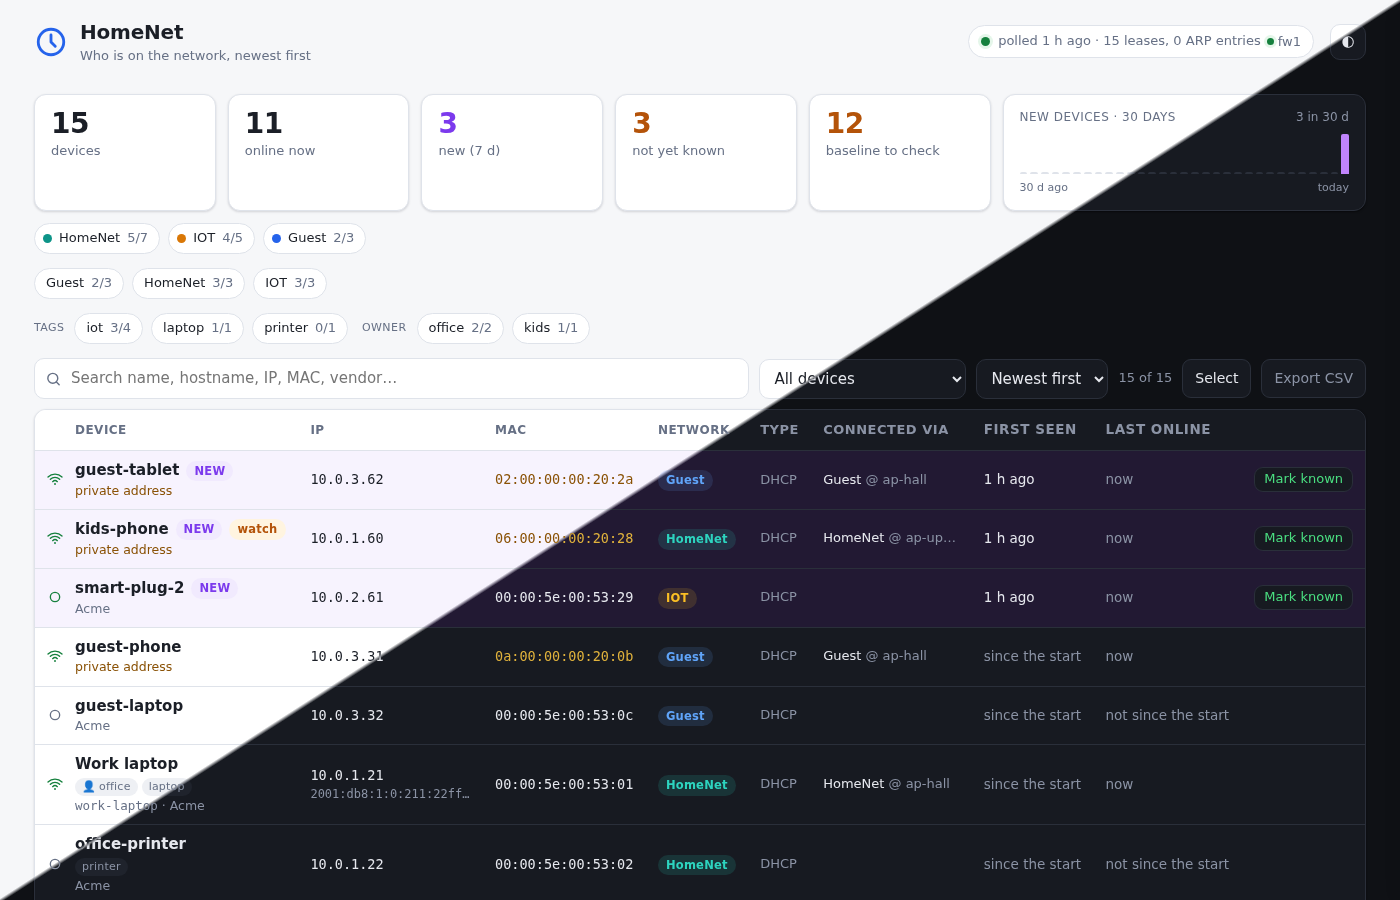
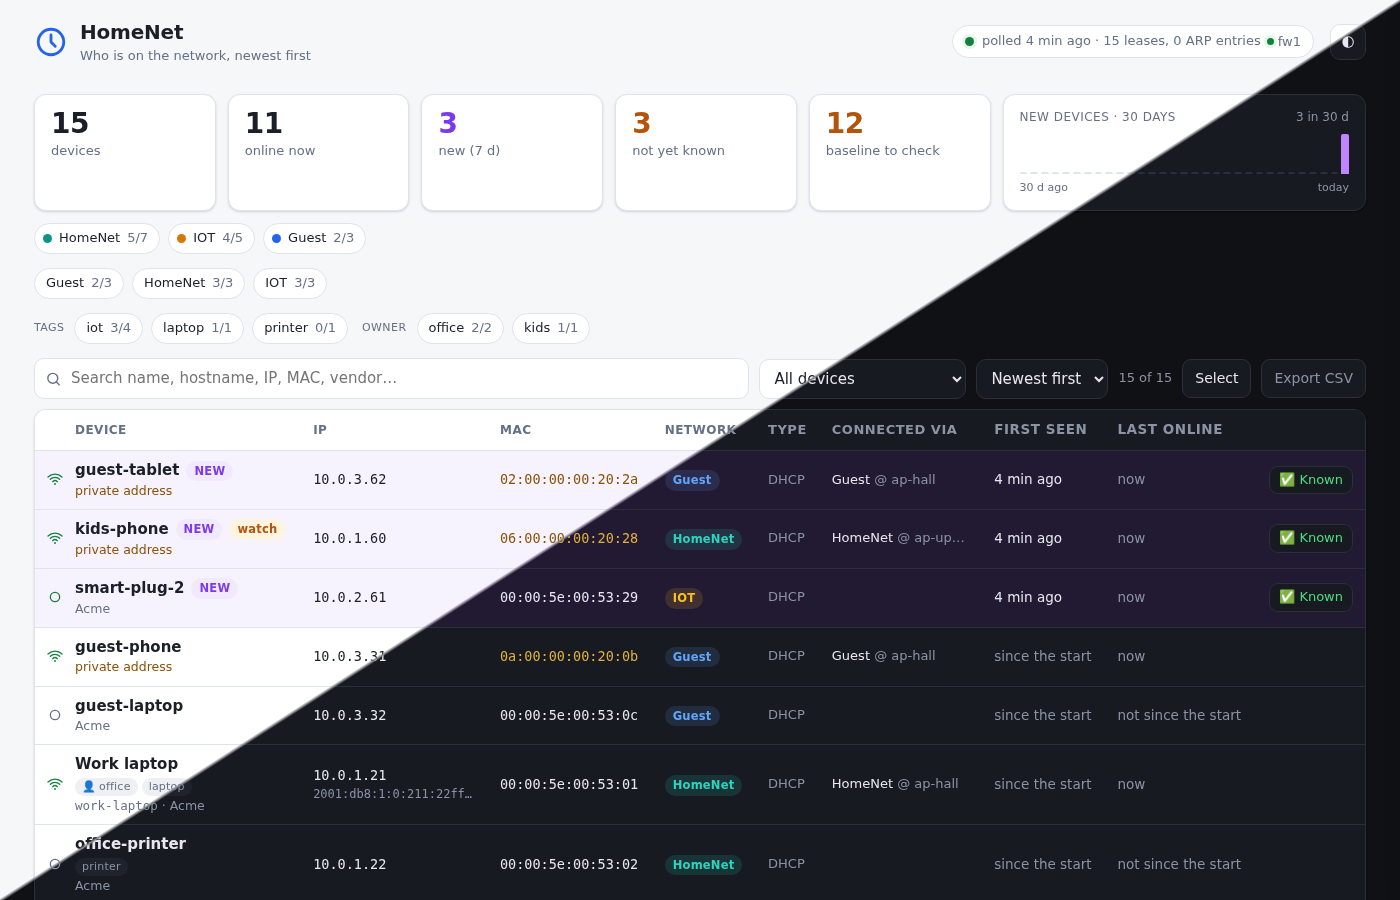
Release 1.7.1: the row button reads "✅ Known" / "✅ Känd" and stays on one line
"Markera som känd" took two or three lines in the table even on a wide
window. The row button now says "✅ Known" (Swedish "✅ Känd") and no
longer wraps: a wrapping button split the short text between the icon
and the word under auto table layout. Tooltip and screen-reader name are
unchanged ("Acknowledge: I know this device"); the Select bar keeps its
full text. The browser test now requires one line in every measured
state (it failed in 8 of 10 states on the old text). Screenshot re-taken.

diff --git a/leasewatch/static/style.css b/leasewatch/static/style.css
@@ -144,10 +144,10 @@ tbody tr:last-child td { border-bottom: 0; }
 .c-where .sig { font-variant-numeric: tabular-nums; }
 .status .src { display: inline-flex; align-items: center; gap: 4px; margin-left: 6px; }
 .status .src .dot { width: 7px; height: 7px; }
-.c-act .btn.ack { white-space: normal; text-align: left; line-height: 1.15; } /* "Mark known" / "Markera som känd" wraps where the table is tight, so the table does not scroll sideways */
+.c-act .btn.ack { white-space: nowrap; } /* the row button ("✅ Known" / "✅ Känd", 1.7.1) is short enough to stay on one line: under auto layout a wrapping button split between the icon and the word even with room in the table */
 th.c-first, th.c-last { white-space: normal; } /* a long heading (Swedish "Första gången sedd") wraps instead of widening the column past its dates */
 .c-first, .c-last { white-space: nowrap; color: var(--muted); font-size: 13.5px; font-variant-numeric: tabular-nums; }
-/* below 1400 px the page is capped at 1232 px and a full table is tight: a long phrase ("not since the start") may wrap there, and the Mark known button wraps too (any width), so the table fits without a sideways scroll; from 1400 px the page is 100 px wider and the dates stop wrapping */
+/* below 1400 px the page is capped at 1232 px and a full table is tight: a long phrase ("not since the start") may wrap there, so the table fits without a sideways scroll; from 1400 px the page is 100 px wider and the dates stop wrapping */
 @media (max-width: 1399px) { td.c-first, td.c-last { white-space: normal; } }
 .c-first.recent { color: var(--text); }
 .c-act { width: auto; text-align: right; }

diff --git a/leasewatch/static/i18n.js b/leasewatch/static/i18n.js
@@ -211,7 +211,7 @@ window.LW_STRINGS = {
     "row.link_wifi": "Wi-Fi",
     "row.link_wired": "wired",
     "row.listed_title": "listed by the firewall but not seen on the wire since leasewatch started; last listed {seen}",
-    "row.mark_known": "Mark known",
+    "row.mark_known": "✅ Known",
     "row.new": "NEW",
     "row.not_known": "not yet known",
     "row.not_since_start": "not since the start",
@@ -501,7 +501,7 @@ window.LW_STRINGS = {
     "row.link_wifi": "Wi-Fi",
     "row.link_wired": "kabel",
     "row.listed_title": "listad av brandväggen men inte sedd på nätet sedan leasewatch startade; senast listad {seen}",
-    "row.mark_known": "Markera som känd",
+    "row.mark_known": "✅ Känd",
     "row.new": "NY",
     "row.not_known": "ej känd än",
     "row.not_since_start": "inte sedan start",

diff --git a/leasewatch/static/index.html b/leasewatch/static/index.html
@@ -147,7 +147,7 @@
     <td class="c-where"></td>
     <td class="c-first"></td>
     <td class="c-last"></td>
-    <td class="c-act"><button class="btn small ack" title="Acknowledge: I know this device" aria-label="Acknowledge" data-i18n="row.mark_known" data-i18n-attr="title:row.ack_title,aria-label:row.ack_aria">Mark known</button></td>
+    <td class="c-act"><button class="btn small ack" title="Acknowledge: I know this device" aria-label="Acknowledge" data-i18n="row.mark_known" data-i18n-attr="title:row.ack_title,aria-label:row.ack_aria">✅ Known</button></td>
   </tr>
 </template>
 

diff --git a/tests/test_ui_browser.py b/tests/test_ui_browser.py
@@ -680,8 +680,8 @@ class BrowserLongTextTest(_BrowserCase):
 
 class BrowserActColumnTest(_BrowserCase):
     """A tight table (an online device with an IPv6 line, a baseline device that is offline, private MACs, a switch
-    port and Wi-Fi details, two unacked devices): the Mark known button wraps instead of being cut off at the right
-    edge of the table, in English and Swedish, at laptop, desktop and phone widths."""
+    port and Wi-Fi details, two unacked devices): the row's known button ("✅ Known" / "✅ Känd") stays on one line and
+    is never cut off at the right edge of the table, in English and Swedish, at laptop, desktop and phone widths."""
     V6 = "2001:db8:1:0:211:22ff:fe33:4455"
 
     @classmethod
@@ -718,7 +718,7 @@ class BrowserActColumnTest(_BrowserCase):
                         self.assertLessEqual(m["btn_over"], 0, m)
                         if width != "400":
                             self.assertEqual(m["dot_w"], 28, m)
-        self.assertLessEqual(d["sv"]["1280"]["all"]["btn_lines"], 3, d["sv"]["1280"]["all"])  # it wraps, and stays readable
+                            self.assertEqual(m["btn_lines"], 1, m)  # "✅ Known" / "✅ Känd" fits on one line (1.7.1)
 
 
 class BrowserSsidWidthTest(_BrowserCase):
@@ -971,7 +971,7 @@ class BrowserLangSvTest(_BrowserCase):
         self.assertEqual(d["html_lang"], "sv")
         self.assertEqual(d["sub"]["shown"], d["sub"]["table"])
         self.assertEqual(d["sub"]["shown"], "Vem finns på nätverket, nyast först")  # the owner-facing sample
-        self.assertEqual(d["row_ack"]["shown"], "Markera som känd")
+        self.assertEqual(d["row_ack"]["shown"], "✅ Känd")
         self.assertEqual(d["new_label"], {"shown": "nya (7 d)", "table": "nya (7 d)"})  # the default 7 days, as after the status reply
         for part in (d["new_badge"], d["row_ack"], d["kind_option"], d["headings"], *d["headers"].values(), *d["drawer"].values()):
             self.assertEqual(part["shown"], part["table"], part)

diff --git a/leasewatch/__init__.py b/leasewatch/__init__.py
@@ -1,2 +1,2 @@
 """leasewatch: who is on the home network — DHCP leases + ARP from fw1, new devices first."""
-__version__ = "1.7.0"
+__version__ = "1.7.1"

diff --git a/README.md b/README.md
@@ -21,7 +21,7 @@ install -d -o 10001 -g 10001 data           # the container runs as uid:gid 1000
 docker compose up -d --build                # publishes port 8080 on the host; for nginx-proxy see the commented variant in docker-compose.yml
 docker compose exec leasewatch wget -qO- http://127.0.0.1:8080/api/stats   # the meta block shows the last poll; /healthz is for monitors (503 + reason on failure, which busybox wget does not print)
 ```
-The default compose file publishes `8080:8080` and needs no external network. leasewatch tracks IPv4; IPv6 is opt-in per firewall instance (`LW_CONNECTOR__<NAME>__IPV6=1`) and adds one IPv6 address per device, never presence or a new device (see *IPv6* under Semantics). Timestamps in logs and CSV are UTC unless `TZ` is set (the image has tzdata). `LOG_FORMAT=plain|json|auto` (default `auto`) sets the log line layout: under systemd/journald the time is left out automatically (journald adds its own); with Docker use `LOG_FORMAT=json` if a log driver parses JSON. `UI_LANG=auto|en|sv` (default `auto`) sets the page's language (see *Language* under Semantics). `MAIL_LANG=en|sv` (default `en`) sets the language of mails and webhook texts. The base image is pinned by digest in the Dockerfile; Dependabot proposes the weekly refresh of the base image, the actions and the Python version ranges; the hash lock is refreshed by hand as the build notes describe. The image installs the Python packages from the hash-locked `requirements.lock`; [docs/image-build.md](docs/image-build.md) explains how to refresh it. Tagged releases are also published as `ghcr.io/the-louie/leasewatch:<version>` (and `:1.7`, `:latest`; amd64 and arm64; `latest` follows the newest release tag without a suffix): in `docker-compose.yml` replace `image: leasewatch:local` with `image: ghcr.io/the-louie/leasewatch:1.7.0` and remove the `build: .` line to run the published image instead of building. The package is public once the owner has made it so after the first publish.
+The default compose file publishes `8080:8080` and needs no external network. leasewatch tracks IPv4; IPv6 is opt-in per firewall instance (`LW_CONNECTOR__<NAME>__IPV6=1`) and adds one IPv6 address per device, never presence or a new device (see *IPv6* under Semantics). Timestamps in logs and CSV are UTC unless `TZ` is set (the image has tzdata). `LOG_FORMAT=plain|json|auto` (default `auto`) sets the log line layout: under systemd/journald the time is left out automatically (journald adds its own); with Docker use `LOG_FORMAT=json` if a log driver parses JSON. `UI_LANG=auto|en|sv` (default `auto`) sets the page's language (see *Language* under Semantics). `MAIL_LANG=en|sv` (default `en`) sets the language of mails and webhook texts. The base image is pinned by digest in the Dockerfile; Dependabot proposes the weekly refresh of the base image, the actions and the Python version ranges; the hash lock is refreshed by hand as the build notes describe. The image installs the Python packages from the hash-locked `requirements.lock`; [docs/image-build.md](docs/image-build.md) explains how to refresh it. Tagged releases are also published as `ghcr.io/the-louie/leasewatch:<version>` (and `:1.7`, `:latest`; amd64 and arm64; `latest` follows the newest release tag without a suffix): in `docker-compose.yml` replace `image: leasewatch:local` with `image: ghcr.io/the-louie/leasewatch:1.7.1` and remove the `build: .` line to run the published image instead of building. The package is public once the owner has made it so after the first publish.
 
 Without Docker: `pip install .` (or `pip install '.[snmp]'` for the SNMP switch connector) installs the `leasewatch` command, which runs like `python3 -m leasewatch`. It reads its settings from the environment only (it does not read `.env`) and needs a writable `DATA_DIR` (default `/data`), e.g. `DATA_DIR=./data`.
 
@@ -169,7 +169,7 @@ The server answers at most 64 requests at once (a 503 with `Retry-After: 5` beyo
 - **Tags:** free tags per device, typed comma-separated in the device page (typed text that a failed save would lose is kept until the next open). The Select bar adds or removes a tag on the selected devices (a device whose own tags plus the added ones would pass eight is named in a confirm and left out). Tags are normalised: lower-case, blanks become dashes, only letters, digits, `_`, `:`, `.` and `-`, the first character a letter or digit (so `-legacy` and `.old` are refused), 1-24 characters each, at most 8 per device; anything else is refused with the reason. `owner:alex` is the way to record who owns a device (the page groups those under Owner). The toolbar shows a chip per tag with online/total counts (the 12 most used, then "+N more"); a click filters the table and the address carries `?tag=`. The search box finds tags. A tagged device counts as named: it is never folded into another device, archived by `PRUNE_DAYS` or `PRUNE_PRIVATE_DAYS`, or deleted by `PURGE_DAYS`. A `tags` event records every change with who did it. The CSV has a `tags` column and `import-csv` restores it. Only the single POST sets the whole tags text; the bulk route (`POST /api/devices`) adds tags with `tags_add` and removes them with `tags_remove` on many devices at once, all or nothing: if a device would get more than 8 tags, the answer names it in `full` and no device changes. Each changed device gets the same `tags` event as the single POST.
 - **Archive:** "Archive" on the device page takes a device out of the list (the status filter "Archived" shows the archived ones; "Restore to list" puts one back). **Several at once:** "Select" in the toolbar shows a checkbox per row (and hides the Type column meanwhile; on windows of 1400 px and less the First column too, at 1100 px and less also Last and Where); tick rows, or all visible rows with the header box, and the bar at the bottom offers Mark known, Archive (Restore to list under the "Archived" filter), a tag input with Add and Remove, and Clear. A selection covers only the rows on screen; "Done" leaves the mode and clears it. A client that may not write has no "Select" button. An archived device keeps its history, events, name, note and ack, is still updated while the firewall lists it, is not counted in the cards and network chips, and leaves the new-device mail queue. It comes back to the list by itself when it is online again (on the wire, not merely listed: a static lease is listed every poll) after it has been offline, with one `back` event ("back from the archive (archived N days ago)"), no `new` event and no mail; one archived while still online stays archived until then. `PRUNE_DAYS` (default 0 = off) archives, once per poll, every device that is offline, has not been online for that many days (since first seen if never online), has no name, is not tagged and is not marked known or marked Watch, devices present at the start included, but not one restored by hand since it was last online, for as long as its `restored` event is kept (events are kept `EVENT_DAYS`, default 365, so `EVENT_DAYS` below `PRUNE_DAYS` or `PRUNE_PRIVATE_DAYS` shortens that hold and a start warning says so); event `archived` "auto: not online for N days". `PRUNE_PRIVATE_DAYS` (default 0 = use `PRUNE_DAYS`, else 2-3650) is a shorter threshold (never longer than `PRUNE_DAYS`) for private (randomised) MACs that never merged: no name, note or ack, not tagged, not marked Watch, not made by a split, and no merged address pointing at it; event `archived` "auto (private): not online for N days". It runs with `PRUNE_DAYS` off too, then archives only those devices; the hand-restore hold applies to it as well. It never runs at the first poll or while the baseline waits. `PRUNE_DAYS` follows the same prune clock as the event log (it moves at most a day per start and at most twice real time), so a clock that jumps ahead does not archive devices early; after a long downtime pruning lags until the clock catches up. `PURGE_DAYS` (default 0 = off, e.g. 180) deletes, once per poll, every archived device that has been archived longer than that by the prune clock, is offline, that no source has listed for that long, has no name, no note, no tags and is not marked known or marked Watch, together with its history, events, Seen-by rows, Wi-Fi history and merged addresses (other devices' `merged` or `split` events that name it stay). A purged MAC that is seen again is a new device (and mails as one). It never runs at the first poll or while the baseline waits, and it follows the same prune clock as `PRUNE_DAYS`. For a long-lived install set `PURGE_DAYS`: archived rows cost every poll and every page load. The database file does not shrink until `python -m leasewatch vacuum` (see Backup and reset).
 - Interfaces in a firewall instance's `LW_CONNECTOR__<NAME>__IGNORE_INTERFACES` (default WAN and loopback) are skipped.
-- **Layout:** the page is 1280 px wide at most (1380 px from a 1400 px window); the table fits a 400 px phone window (the IPv6 line and the badges move into a meta line) and never scrolls sideways from a 1200 px window (a long date phrase or the Mark known button wraps instead); below that it scrolls, as before; the Type column shows from 1280 px; the search applies 150 ms after the last key, Enter and Escape at once. The first column shows the link type as an icon (Wi-Fi arcs, a wired plug, or a ring when no switch or Wi-Fi controller has placed the device), green while the device is online and grey when it is not; its tooltip gives the type and the online state.
+- **Layout:** the page is 1280 px wide at most (1380 px from a 1400 px window); the table fits a 400 px phone window (the IPv6 line and the badges move into a meta line) and never scrolls sideways from a 1200 px window (a long date phrase wraps instead; the row's known button reads "✅ Known" so it fits on one line); below that it scrolls, as before; the Type column shows from 1280 px; the search applies 150 ms after the last key, Enter and Escape at once. The first column shows the link type as an icon (Wi-Fi arcs, a wired plug, or a ring when no switch or Wi-Fi controller has placed the device), green while the device is online and grey when it is not; its tooltip gives the type and the online state.
 - **Language:** the page is available in English and Swedish. `?lang=sv` or `?lang=en` in the address decides first (it stays across filter clicks and Clear filters, and is per address: nothing is stored in the browser, and there is no switch in the page); else the `UI_LANG` setting (`auto` default, `en`, `sv`; any other value logs a WARNING at start and counts as `auto`); else the browser's language (Swedish when its first language starts with `sv`); else English. Counts follow the language's plural forms, decimals use the page's language (a comma in Swedish) and sorting follows its alphabet (å, ä, ö last). The texts are in `leasewatch/static/i18n.js`; the English text stays in the HTML as the fallback without script. Mails, webhook texts (ntfy, Discord, and `title`/`message` of the JSON body) and the MQTT event text follow `MAIL_LANG` (`en` default, `sv`), which is set explicitly and never taken from the browser or the page's language; any other value logs a WARNING at start and counts as `en`. Server-written event details (the text beside an event kind, e.g. `old -> new`), connector error texts, log lines, the CSV headers, the JSON keys and the API's error strings stay English, so a Swedish "down" subject quotes the connector's English error text (`fw1 är nere: connection refused`) and the body lines quote the stored English event details.
 
 ## Backup and reset
@@ -186,6 +186,7 @@ The server answers at most 64 requests at once (a 503 with `Retry-After: 5` beyo
 - Upgrade to 1.4: the schema stays 4; the `devices` columns `watch` and `watch_online` arrive by migration at the first start, and 1.3 still opens the file. Every new setting is optional: `EVENT_DAYS`, `HISTORY_PER_DEVICE`, `PURGE_DAYS`, `PRUNE_PRIVATE_DAYS`, `LOG_FORMAT`, `MAIL_ON_SOURCE`, `MAIL_ON_WATCH`, `AUTH_RO_USER`/`AUTH_RO_PASSWORD_HASH`, and `AUTH`/`API_KEY` of a `unifi` instance. To go back to 1.3, first remove `AUTH` and `API_KEY` from any `unifi` instance in `.env` (1.3 refuses to start on an unknown connector setting); under 1.3 the watch flags, the audit events and the alerts pause. The alert mark is kept, so after 1.3 has run for a while 1.4 skips more than 50 pending alerts at its start (with a log line).
 - Upgrade to 1.5: the schema stays 4; the `devices` columns `tags` and `ip6` arrive by migration at the first start, and 1.4 still opens the file. Every new setting is optional: `UI_LANG`, `MQTT_*`, `AUTH_TOKENS`, and `IPV6` and `HOSTNAMES` of connector instances. To go back to 1.4, first remove `IPV6` and `HOSTNAMES` from the connector instances in `.env` (1.4 refuses to start on an unknown connector setting). 1.4 does not read tags: a device kept only by its tags is archived by `PRUNE_DAYS` and deleted by `PURGE_DAYS` under 1.4. The Swedish page, MQTT, tokens and the IPv6 column pause under 1.4; it ignores the new meta rows.
 - Upgrade to 1.6: the schema stays 4; the `devices` column `ip6_stable` and the `history` column `ip6` arrive by migration at the first start, and 1.5 still opens the file. With `IPV6=1`, the first 1.6 poll writes one history row per device that has a stable IPv6 address, and no event. `MAIL_LANG` is optional (default `en`). The mDNS plugin is version 0.2.0 with the optional settings `RELAYS` and `SSDP`: copy `contrib/leasewatch-mdns` into your plugin directory again, since the 1.5 copy refuses the two settings as unknown. To go back to 1.5, remove `RELAYS` and `SSDP` from the mdns instance (a 1.5 host does not read `MAIL_LANG` and ignores it).
+- Upgrade to 1.7.1: the row button that marks a device known reads "✅ Known" ("✅ Känd") instead of "Mark known" ("Markera som känd"), which took two or three lines in Swedish; the tooltip and the screen-reader name still say "Acknowledge: I know this device". Static files only.
 - Upgrade to 1.7: no schema or setting change; only the page's static files and the docs changed (golden private MACs, link-type icons, the wrapping Mark known button, the 1380 px page from a 1400 px window). Going back to 1.6 needs nothing.
 - `reset-baseline`: `docker compose exec leasewatch python -m leasewatch reset-baseline [--yes] [--clear-acks] [--include-archived]` marks every listed device as baseline (present from the start: it never merges and never mails), empties the new-device mail queue and sets `baseline_ts`, without deleting the database. Names, notes, acks, events and history stay; no events are written. Archived devices are left alone unless `--include-archived`; `--clear-acks` also sets the targeted devices to not acknowledged. It asks for a `y` on a terminal; `--yes` is required in a script or without a terminal (`exec -T`). It prints `reset-baseline: N devices marked as baseline (M were new)`. The page shows the change after the next poll.
 - `import-csv`: `docker compose run --rm -T -v "$PWD:/in:ro" leasewatch python -m leasewatch import-csv [--dry-run] [--fields LIST] [--overwrite] /in/devices.csv` restores name, note, acked, archived, watch and tags from the page's CSV export, also after Excel saved it again with `;`. By default it only fills an empty name, note or tags and only sets acked, archived or watch (`--fill-empty`); `--overwrite` applies every value as it is in the file. `--fields name,note` limits what is imported (default `name,note,acked,archived,watch,tags`; a tags cell is normalised like the page does (lower-case, dashes for blanks, at most 8), and an invalid tag skips that row). `--dry-run` counts what would change: it runs the import on a copy and leaves the file untouched. A MAC that no device has is listed and never added; a MAC that is a merged address of a device lands on that device. Rows that land on one device merge field by field: a later non-empty value wins, an empty cell keeps the earlier row's value, and the device is listed as `duplicate: <mac> (N rows)`. The export puts an apostrophe before a `-`, `+`, `=` or `@` that starts a cell or follows `;` or a line break; `import-csv` strips them again. The one lossy case: a typed apostrophe is dropped too whenever it stands where the export would have put one, that is at the start of a cell or right after `;` or a line break, before a character the export treats as a formula start (`=`, `+`, `-`, `@`, a tab or CR, also after blanks or quotes). Limits: 1 MiB and 20 000 rows.

diff --git a/CHANGELOG.md b/CHANGELOG.md
@@ -2,6 +2,11 @@
 
 All notable changes to leasewatch are listed here. The format follows [Keep a Changelog](https://keepachangelog.com/en/1.1.0/).
 
+## 1.7.1 (2026-11-10)
+
+### Changed
+- The row button that marks a device known reads "✅ Known" (Swedish "✅ Känd") instead of "Mark known" ("Markera som känd"): the Swedish text took two or three lines in the table even on a wide window. The tooltip and the screen-reader name are unchanged ("Acknowledge: I know this device"); the Select bar's button keeps its full text. The row button no longer wraps at all (1.7.0 let it wrap, which split the short text between the icon and the word).
+
 ## 1.7.0 (2026-11-09)
 
 ### Changed
